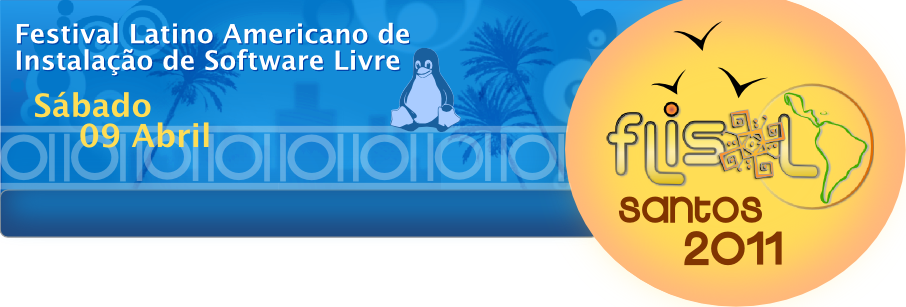
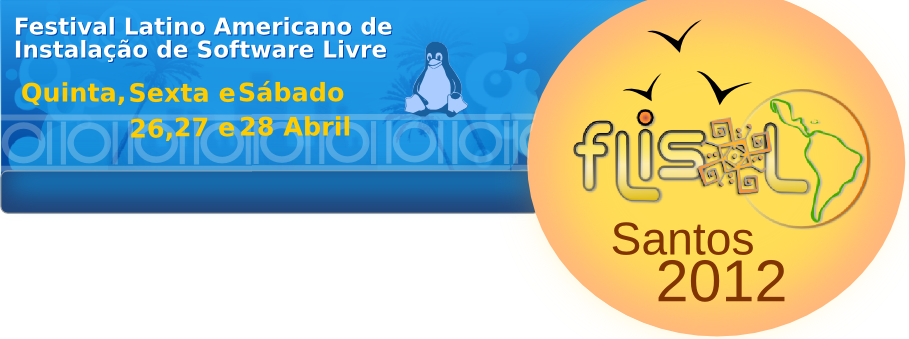
Adicionados textos, imagens e pequenas correções.

diff --git a/css/template.css b/css/template.css
@@ -56,15 +56,15 @@ h2 {
     text-align: left;
     font-weight: bold;
     padding: 0px 0px 0px 4px;
-    font-size: 12px;
+    font-size: 11px;
     position: absolute;
-    top: 179px;
+    top: 161px;
 }
 
 #menu li {
     display: inline-block;
-    padding: 14px 7px 0px 3px;
-    height: 44px;
+    padding: 14px 5px 0px 0px;
+    height: 26px;
     background-image: url(../imagens/sep_menu.png);
     background-position: top right;
     background-repeat: no-repeat;
@@ -125,6 +125,7 @@ a img {
     float: left;
     width: 550px;
     text-align: justify;
+    margin: -110px 0 0 0;
 }
 
 #conteudo h1 {

diff --git a/paginas/flisol.php b/paginas/flisol.php
@@ -1,0 +1,88 @@
+<h1>Saiba mais sobre o Flisol</h1>
+
+<h2>A Internet está sob ataque?</h2>
+
+<p>O advento de projetos de leis como o ACTA, SOPA e PIPA, o fechamento do site Megaupload e a reforma do direito autoral são assuntos que colocam a liberdade do usuário da grande rede mundial de computadores em cheque. </p>
+
+<p>A crise na Internet que recentemente foi intitulada como a “terceira Guerra Mundial” por internautas está sendo discutida nos mais diversos meios e ganha um espaço cada vez maior na grande mídia. É sob a necessidade de se discutir a liberdade e a diversidade cultural na rede que anunciamos o "Festival Latino Americano de Instalação de Software Livre", FLISOL, em Santos.</p>
+
+<p>O <strong>FLISOL</strong> é o maior evento de difusão de Software Livre na América Latina. Vem sendo realizado desde 2005 e tem como objetivo principal, além de promover o uso do Software Livre, esclarecer sua filosofia, avanços, viabilidade técnica, social e econômica. O evento é destinado a estudantes, empresários e o público em geral.
+</p>
+<p>Durante o <strong>FLISOL</strong> serão discutidos o uso do Software Livre como forma de emancipação dos usuários na rede mundial de computadores, além da necessidade de se colocar os usuários em posição de equilíbrio com os desenvolvedores e empresas produtoras de software. “Esse equilíbrio interfere nos sistemas de desenvolvimento e de acesso aos conhecimentos, tornando todos partícipes do processo”, afirma Paulo Kretcheu, professor universitário e consultor de segurança e redes.</p>
+
+<p>Segundo <strong>Kretcheu</strong>, o usuário de softwares livres, ainda que sem perceber, fortalece o modelo de desenvolvimento colaborativo e acaba por se beneficiar mesmo que não envolvido diretamente. O usuário de software proprietário, em boa parte usa de modo ilegal, cometendo um crime e ficando cada vez mais dependente do modelo que lhe desfavorece.</p>
+
+<p>O evento se propõe a debater a produção de conteúdo de forma colaborativa na Internet, quais são os limites da liberdade de criação e inovação, leis de direitos autorais, as diferenças entre os softwares livres e proprietários, entre outros assuntos em pauta.</p>
+
+<h2>Mais sobre o evento</h2>
+
+<p>O <strong>FLISOL</strong> acontece simultaneamente em diversos países da América Latina, inclusive no Brasil. Santos receberá sua sexta edição neste ano. Para esse fim as diversas comunidades locais de Software Livre em cada país, cidade ou localidade, organizam simultaneamente eventos em que se instala, de maneira gratuita e totalmente legal, softwares livres nos computadores dos participantes que se interessarem. Também são oferecidos mini cursos e palestras em torno de temas que envolvem o Software Livre em todas suas expressões: artística, acadêmica, empresarial e social.</p>
+
+<p>O <strong>FLISOL</strong> acontecerá entre <strong>quinta, sexta e sábado entre os dias 26 e 28 de abril de 2012, em Santos</strong>.</p>
+
+<p>Endereço: </p>
+<p>FATEC/RL Faculdade de Tecnologia Rubens Lara</p> 
+<p>Av. Bartolomeu de Gusmão,110.</p> 
+
+<h2>Quem organiza o FLISOL ?</h2>
+
+<p>As comunidades de Software Livre na América Latina, formadas por pessoas e grupos de diversas áreas, com o apoio de outras entidades, principalmente educacionais e patrocinadores. Em Santos o Grupo do Compartilhamento do Conhecimento Santos Dumont (GCC-SD) é o responsável pela organização.</p>
+
+<h2>A quem o evento é dirigido ?</h2>
+
+<p>O evento é dirigido a todo tipo de público: estudantes, empresários, entusiastas e pessoas que não têm muito conhecimento sobre softwares.</p>
+
+<p>Aqueles que não possuem conhecimentos sobre informática, licenças de software, copyright e demais áreas da ciência e da tecnologia também podem assistir e participar do evento.</p>
+
+<p>Nosso objetivo é compartilhar conhecimento, buscando a liberdade.</p>
+
+<h2>Quanto custa a participação no evento ?</h2>
+
+<p>A participação no evento é totalmente livre e gratuita.</p>
+
+<h2>Que benefícios têm os participantes do FLISOL?</h2>
+
+<p>Entre alguns outros benefícios os participantes terão a oportunidade de instalar Softwares Livres em seus computadores, perceber que é uma alternativa real e segura a outros modelos de desenvolvimento e distribuição de software. Informar-se sobre sua filosofia, cultura e organização ao redor do mundo, conhecer as experiências, desenvolvimentos e estudos de grupos e entidades relacionadas ao Software Livre no âmbito local, nacional e internacional.</p>
+
+<p>Existe também a possibilidade de encontrar uma alternativa ou solução que use Software Livre para sua empresa, colégio, universidade ou para seu governo. </p>
+
+<p>O participante poderá esclarecer suas dúvidas sobre os temas relacionados e, quem sabe, encontrar no Software Livre uma alternativa de estudos, emprego ou desenvolvimento tecnológico.</p>
+
+<h2>Como sua entidade pode apoiar essa iniciativa</h2>
+
+<ul>
+    <li>Oferecendo o espaço físico para realização do evento.</li>
+    <li>Oferecendo estrutura de rede e acesso a Internet. </li>
+    <li>Permitindo a colocação de cartazes e distribuição de folhetos promocionais.</li>
+    <li>Permitindo a visita da organização a salas de aula divulgando o evento.</li>
+    <li>Oferecendo espaço para realização de palestras promocionais sobre Software Livre antes do evento.</li>
+    <li>Envolver o FLISOL nas atividades acadêmicas dos cursos relacionados a informática.</li>
+</ul>
+
+<h2>Como sua entidade pode patrocinar essa iniciativa</h2>
+
+<p>Arcando com parte dos custos, que envolvem:</p>
+
+<ul>
+    <li>Confecção de material de divulgação.</li>
+    <li>Confecção de brindes para serem distribuídos no evento.</li>
+    <li>Operacionalização do evento, translado de palestrantes e operadores.</li>
+    <li>Gravação de Cds para distribuição entre os participantes.</li>
+    <li>Doação de livros, acessórios de informática para sorteio no evento.</li>
+</ul>
+
+<h2>Site do Evento</h2>
+
+<p><a href="http://www.flisol.net/FLISOL2012/Brasil" title="Site do Flisol">http://www.flisol.net/FLISOL2012/Brasil</a>
+</p>
+
+<h2>Site do Evento em Santos</h2>
+
+<p><a href="http://flisol.gccsd.com.br" title="Hotsite do Flisol Santos">http://flisol.gccsd.com.br</a></p>
+<p><a href="http://www.flisol.net/FLISOL2012/Brasil/Santos" title="Site do Flisol Santos">http://www.flisol.net/FLISOL2012/Brasil/Santos</a></p>
+
+<h2>Links sobre o tema</h2>
+
+<p><a href="http://pt.wikipedia.org/wiki/Flisol" title="Página do Flisol na Wikipedia">http://pt.wikipedia.org/wiki/Flisol</a></p>
+<p><a href="http://pt.wikipedia.org/wiki/Software_livre" title="Página da Wikipedia sobre Software Livre">http://pt.wikipedia.org/wiki/Software_livre</a></p>
+<p><a href="http://www.softwarelivre.gov.br/links/" title="Software Livre">http://www.softwarelivre.gov.br/links/</a></p>

diff --git a/paginas/programacao.php b/paginas/programacao.php
@@ -1,5 +1,5 @@
 <h1>Programação</h1>
-<h2>Install Fest (9h às 17h)</h2>
+<h2>Dia 28/05 - Install Fest (9h às 17h)</h2>
 <p>Durante todo o dia acontecerão instalações de softwares livres nos computadores dos participantes interessados.</p>
 <p>A equipe organizadora do Flisol Santos conta com técnicos especializados em Software Livre. Esses profissionais podem ajudar os participantes a:</p>
 <ul>
@@ -7,15 +7,4 @@
     <li>Resolver problemas pós instalação de distribuições GNU/Linux.</li>
     <li>Tirar dúvidas em geral sobre o uso de Softwares Livres.</li>
 </ul>
-<h2>Área de Jogos (9h às 17h)</h2>
-<p>Durante o evento haverá uma área dedicada aos jogos em ambientes GNU/Linux. Esta área contará com a presença do Carlos Donizete (Coringão), criador e mantenedor do site <a href="http://www.ubuntugames.org/" title="Site do Ubuntu Games">Ubuntu Games</a>.</p>
-<h2>Palestras</h2>
-<ul>
-    <li><strong>“Sustentabilidade de Projetos de Software Livre e Padrões Abertos”</strong> por Evaldo Junior, às 10h30;</li>
-    <li><strong>"Desafio das Línguas"</strong> por Emilio Cid, às 15h30;</li>
-</ul>
-<h2>Outras atividades</h2>
-<ul>
-    <li>Debate <strong>"Software Livre e a Sociedade"</strong>, às 13h30;</li>
-    <li><strong>Sorteio de vagas em cursos da região e brindes</strong> durante todo o dia;</li>
-</ul>
+<h2>Programação de palestras em breve.</h2>

diff --git a/index.php b/index.php
@@ -18,6 +18,10 @@ if (isset($_GET['pagina'])) {
             $pagina = 'principal.php';
             $titulo = 'Flisol Santos 2012';
             break;
+        case 'flisol':
+            $pagina = 'flisol.php';
+            $titulo = 'Sobre o Flisol';
+            break;
         case 'programacao':
             $pagina = 'programacao.php';
             $titulo = 'Programação | Flisol Santos 2012';

diff --git a/paginas/principal.php b/paginas/principal.php
@@ -23,4 +23,3 @@
 <h2>Venha para o Flisol Santos 2012</h2>
 
 <!-- TODO trocar o vídeo -->
-<iframe title="YouTube video player" width="560" height="390" src="http://www.youtube.com/embed/MivurEWgLdI" frameborder="0" allowfullscreen></iframe>
